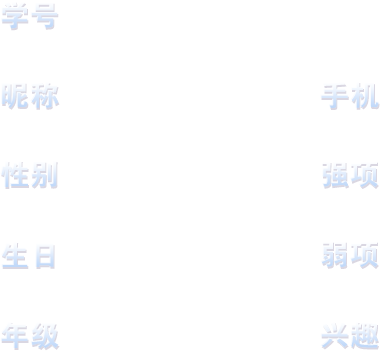
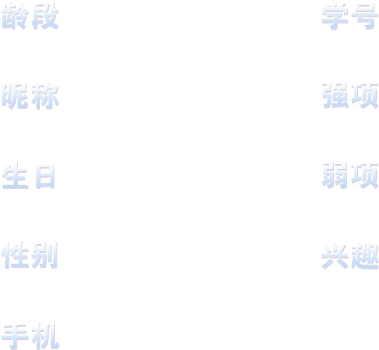
0129

diff --git a/Application/Hd/View/v1/Role/userInfo.html b/Application/Hd/View/v1/Role/userInfo.html
@@ -7,8 +7,8 @@
 #bottom{
 	position: absolute;
 	display: block;
-	width: 380px;
-	height: 351px;
+	width: 379px;
+	height: 350px;
 	top: 190px;
 	left: 400px;
 	background-image: url(__HD__/images/usercenter/baseInfo/bottom_baseInfo.png);
@@ -22,20 +22,20 @@
 	
 	var buttons = [
 	/* 栏目  */
-	{id:'ch_1',name:'',action:'',linkImage:'',focusImage:'',resize:'-1',selectBox:'',blurHandler:'blurHandler()',up:'changeNum',down:'ch_2',right:'nickname'}, 
-	{id:'ch_2',name:'',action:'',linkImage:'',focusImage:'',resize:'-1',selectBox:'',focusHandler:'focusHandler()',up:'ch_1',down:'ch_3',right:'nickname'}, 
-	{id:'ch_3',name:'',action:'',linkImage:'',focusImage:'',resize:'-1',selectBox:'',focusHandler:'focusHandler()',up:'ch_2',right:'nickname'},
+	{id:'ch_1',name:'',action:'',linkImage:'',focusImage:'',resize:'-1',selectBox:'',blurHandler:'blurHandler()',up:'changeNum',down:'ch_2',right:'stage'}, 
+	{id:'ch_2',name:'',action:'',linkImage:'',focusImage:'',resize:'-1',selectBox:'',focusHandler:'focusHandler()',up:'ch_1',down:'ch_3',right:'stage'}, 
+	{id:'ch_3',name:'',action:'',linkImage:'',focusImage:'',resize:'-1',selectBox:'',focusHandler:'focusHandler()',up:'ch_2',right:'stage'},
 
-	{id:'nickname',name:'',action:'',linkImage:'__HD__/images/usercenter/baseInfo/kuang_long.png',selectBox:'__HD__/images/usercenter/baseInfo/kuang_long_over.png',resize:'-1',left:'changeNum',right:'phone',down:'sex'},
-	{id:'sex',name:'',action:'',linkImage:'__HD__/images/usercenter/baseInfo/kuang_long.png',selectBox:'__HD__/images/usercenter/baseInfo/kuang_long_over.png',resize:'-1',left:'ch_1',right:'advantage',up:'nickname',down:'birthday'},
-	{id:'birthday',name:'',action:'',linkImage:'__HD__/images/usercenter/baseInfo/kuang_long.png',selectBox:'__HD__/images/usercenter/baseInfo/kuang_long_over.png',resize:'-1',left:'ch_2',right:'disadvantage',up:'sex',down:'stage'},
-	{id:'stage',name:'',action:'',linkImage:'__HD__/images/usercenter/baseInfo/kuang_long.png',selectBox:'__HD__/images/usercenter/baseInfo/kuang_long_over.png',resize:'-1',left:'ch_3',right:'interests',up:'birthday',down:''},
+	{id:'stage',name:'',action:'',linkImage:'__HD__/images/usercenter/baseInfo/kuang_long.png',selectBox:'__HD__/images/usercenter/baseInfo/kuang_long_over.png',resize:'-1',left:'selectFace',right:'',up:'',down:'nickname'},
+	{id:'nickname',name:'',action:'',linkImage:'__HD__/images/usercenter/baseInfo/kuang_long.png',selectBox:'__HD__/images/usercenter/baseInfo/kuang_long_over.png',resize:'-1',left:'changeNum',right:'advantage',up:'stage',down:'birthday'},
+	{id:'birthday',name:'',action:'',linkImage:'__HD__/images/usercenter/baseInfo/kuang_long.png',selectBox:'__HD__/images/usercenter/baseInfo/kuang_long_over.png',resize:'-1',left:'ch_1',right:'disadvantage',up:'nickname',down:'sex'},
+	{id:'sex',name:'',action:'',linkImage:'__HD__/images/usercenter/baseInfo/kuang_long.png',selectBox:'__HD__/images/usercenter/baseInfo/kuang_long_over.png',resize:'-1',left:'ch_2',right:'interests',up:'birthday',down:'phone'},
+	{id:'phone',name:'',action:'',linkImage:'__HD__/images/usercenter/baseInfo/kuang_long.png',selectBox:'__HD__/images/usercenter/baseInfo/kuang_long_over.png',resize:'-1',left:'ch_3',up:'sex',down:''},
 
-	{id:'phone',name:'',action:'',linkImage:'__HD__/images/usercenter/baseInfo/kuang_long.png',selectBox:'__HD__/images/usercenter/baseInfo/kuang_long_over.png',resize:'-1',left:'nickname',up:'ch_3',down:'advantage'},
 	{id:'version',name:'',action:'',linkImage:'__HD__/images/usercenter/baseInfo/kuang_long.png',selectBox:'__HD__/images/usercenter/baseInfo/kuang_long_over.png',resize:'-1',left:'nickname',up:'phone',down:'advantage'},
-	{id:'advantage',name:'',action:'',linkImage:'__HD__/images/usercenter/baseInfo/kuang_short.png',selectBox:'__HD__/images/usercenter/baseInfo/kuang_short_over.png',resize:'-1',left:'sex',up:'phone',down:'disadvantage'},
+	{id:'advantage',name:'',action:'',linkImage:'__HD__/images/usercenter/baseInfo/kuang_short.png',selectBox:'__HD__/images/usercenter/baseInfo/kuang_short_over.png',resize:'-1',left:'nickname',up:'',down:'disadvantage'},
 	{id:'disadvantage',name:'',action:'',linkImage:'__HD__/images/usercenter/baseInfo/kuang_short.png',selectBox:'__HD__/images/usercenter/baseInfo/kuang_short_over.png',resize:'-1',left:'birthday',right:'',up:'advantage',down:'interests'},
-	{id:'interests',name:'',action:'',linkImage:'__HD__/images/usercenter/baseInfo/kuang_short.png',selectBox:'__HD__/images/usercenter/baseInfo/kuang_short_over.png',resize:'-1',left:'stage',up:'disadvantage',down:''},
+	{id:'interests',name:'',action:'',linkImage:'__HD__/images/usercenter/baseInfo/kuang_short.png',selectBox:'__HD__/images/usercenter/baseInfo/kuang_short_over.png',resize:'-1',left:'sex',up:'disadvantage',down:''},
 
 	{id:'selectFace',name:'',action:'',linkImage:'__HD__/images/usercenter/baseInfo/face_'+faceNum+'.png',focusImage:'__HD__/images/usercenter/baseInfo/face_'+faceNum+'.png',selectBox:'__HD__/images/usercenter/leftNavigation/title_kuang.png',right:'nickname',up:'ch_3',down:'changeNum'},
 	{id:'changeNum',name:'',action:'',linkImage:'__HD__/images/usercenter/leftNavigation/change_account.png',focusImage:'__HD__/images/usercenter/leftNavigation/change_account_over.png',selectBox:'',right:'sex',up:'selectFace',down:'ch_1'},
@@ -99,16 +99,16 @@
 
 
 <!-- 学号  -->
-<div style="position:absolute;line-height:56px;width:196px;height:56px;left:460px;top:175px;text-align:center;border-style:none;color:black">
+<div style="position:absolute;line-height:56px;width:91px;height:56px;left:800px;top:175px;text-align:center;border-style:none;color:black">
 	<span style="color:white;text-align:center;">{$roleId}</span>
 </div>
 <!-- 用户信息 -->
 <volist name="userInfo" id="info" key="i">
 	<php>
-     	if($i > 4){
-          	$left = 800; $top = 255 + ($i-5)*80;
+     	if($i > 5){
+          	$left = 800; $top = 255 + ($i-6)*80;
        	}else{
-           	$left = 480; $top = 255 + ($i-1)*80;
+           	$left = 480; $top = 175 + ($i-1)*80;
         }
     </php>
 	

diff --git a/Application/Hd/View/v1/SectionList/detail_early.html b/Application/Hd/View/v1/SectionList/detail_early.html
@@ -76,6 +76,20 @@ var buttons=
 		{id:'section_4',name:'',action:'',linkImage:'',focusImage:'',selectBox:'__HD__/images/common/selectBox/select_box_220x220.png',left:['topic_5','topic_4'],right:'section_5',up:'section_1',down:''},
 		{id:'section_5',name:'',action:'',linkImage:'',focusImage:'',selectBox:'__HD__/images/common/selectBox/select_box_220x220.png',left:'section_4',right:'section_6',up:'section_2',down:''},
 		{id:'section_6',name:'',action:'',linkImage:'',focusImage:'',selectBox:'__HD__/images/common/selectBox/select_box_220x220.png',left:'section_5',right:'',up:'section_3',down:''},
+		
+		/* 月份按钮 */
+		{id:'month_1',name:'',action:'',linkImage:'',focusImage:'',left:'',right:'month_2',up:['topic_6','topic_5','topic_4','topic_3','topic_2','topic_1']},
+		{id:'month_2',name:'',action:'',linkImage:'',focusImage:'',left:'month_1',right:'month_3',up:['topic_6','topic_5','topic_4','topic_3','topic_2','topic_1']},
+		{id:'month_3',name:'',action:'',linkImage:'',focusImage:'',left:'month_2',right:'month_4',up:['topic_6','topic_5','topic_4','topic_3','topic_2','topic_1']},
+		{id:'month_4',name:'',action:'',linkImage:'',focusImage:'',left:'month_3',right:'month_5',up:['topic_6','topic_5','topic_4','topic_3','topic_2','topic_1']},
+		{id:'month_5',name:'',action:'',linkImage:'',focusImage:'',left:'month_4',right:'month_6',up:['topic_6','topic_5','topic_4','topic_3','topic_2','topic_1']},
+		{id:'month_6',name:'',action:'',linkImage:'',focusImage:'',left:'month_5',right:'month_7',up:['section_4','section_1']},
+		{id:'month_7',name:'',action:'',linkImage:'',focusImage:'',left:'month_6',right:'month_8',up:['section_4','section_1']},
+		{id:'month_8',name:'',action:'',linkImage:'',focusImage:'',left:'month_7',right:'month_9',up:['section_5','section_2']},
+		{id:'month_9',name:'',action:'',linkImage:'',focusImage:'',left:'month_8',right:'month_10',up:['section_5','section_2']},
+		{id:'month_10',name:'',action:'',linkImage:'',focusImage:'',left:'month_9',right:'month_11',up:['section_5','section_2']},
+		{id:'month_11',name:'',action:'',linkImage:'',focusImage:'',left:'month_10',right:'month_12',up:['section_6','section_3']},
+		{id:'month_12',name:'',action:'',linkImage:'',focusImage:'',left:'month_11',right:'',up:['section_6','section_3']},
 	];
 
 //知识点
@@ -194,7 +208,7 @@ function blurHandler(){
 //获取焦点时处理（目前主要用于栏目按钮）
 function focusHandler(){
 	if(Epg.btn.current.id != cur_topic){
-		setTimeout("Epg.btn.click()",50)
+		setTimeout("Epg.btn.click()",500)
 	}
 }
 

diff --git a/Application/Test/View/v1/Index/index.html b/Application/Test/View/v1/Index/index.html
@@ -18,6 +18,10 @@
 		<td height="40"><a href="http://{$HTTP_HOST}/?params=%7B%22username%22%3A%20%2200000000%22%2C%20%22epg_full_url%22%3A%20%22/epg_redirect/education/%3FINFO%3D%253CuserId%253E123456789036%253C/userId%253E%253CuserToken%253E03111508256980016640821125101009%253C/userToken%253E%253CTokenExpiretime%253E20140402023516%253C/TokenExpiretime%253E%253CGroupId%253E26%253C/GroupId%253E%253CuserIP%253E10.132.100.143%253C/userIP%253E%253CpetName%253E%253C/petName%253E%253CareaCode%253E00%253C/areaCode%253E%253CTradeId%253Enull%253C/TradeId%253E%253CstbId%253E411001990070119000014C09B4E84B2D%253C/stbId%253E%253Cback_hall_url%253Ehttp%3A//61.160.131.12%3A8296/SPToAms%253C/back_hall_url%253E%253Cfrom%253E000%253C/from%253E%22%2C%20%22c_zsj_userid%22%3A%20%22900176%22%2C%20%22areacode%22%3A%2090017%2C%20%22usertoken%22%3A%20%2203111508256980016640821125101009%22%2C%20%22stbtype%22%3A%20%22ztebw%22%2C%20%22userid%22%3A%20%22123456789036%22%2C%20%22return_url%22%3A%20%22http%3A//61.160.131.12%3A8296/SPToAms%3FINFO%3D%3CuserId%3E02586588234%3C/userId%3E%3CuserToken%3E03111508256980016640821125101009%3C/userToken%3E%3CTokenExpiretime%3E20140402023516%3C/TokenExpiretime%3E%3CGroupId%3E26%3C/GroupId%3E%3CuserIP%3E10.132.100.143%3C/userIP%3E%3CareaCode%3E00%3C/areaCode%3E%3CTradeId%3E%3C/TradeId%3E%3CstbId%3E411001990070119000014C09B4E84B2D%3C/stbId%3E%3CoptFlag%3EGAME%3C/optFlag%3E%3CSPID%3Espa00022%3C/SPID%3E%3Cback_epg_url%3Ehttp%3A//61.160.131.12%3A8296/SPToAms%3C/back_epg_url%3E%22%7D">嗨皮课堂</a></td>
 	</tr>
 	<tr align="center">
+		<td>天津广电后台(高清)</td>
+		<td height="40"><a href="http://localhost:8500">嗨皮课堂后台</a></td>
+	</tr>
+	<tr align="center">
 		<td colspan="2"></td>
 	</tr>
 </table>

diff --git a/Application/Hd/View/v1/SectionList/detail_preschool_workday.html b/Application/Hd/View/v1/SectionList/detail_preschool_workday.html
@@ -154,7 +154,7 @@ window.onload=function()
          $top = 500; $left = 85 + ($i-1)*375;
     </php>
     <div id="div_special_{$i}" style="position:absolute;width:370px;height:125px;left:{$left}px;top:{$top}px;text-align:center;">
-        <img id="special_{$i}" title="{:U('SectionList/index?courseId='.$special['id'])}" src="{:get_upfile_url($special['imgUrl'])}" width="360" height="115">
+        <img id="special_{$i}" title="{:U('SectionList/index?courseId='.$special['id'].'&preFocus='.$preFocus)}" src="{:get_upfile_url($special['imgUrl'])}" width="360" height="115">
     </div>
     <div id="div_special_{$i}_focus" style="position:absolute;visibility:hidden;width:380px;height:135px;left:{$left-5}px;top:{$top-5}px;text-align:center;">
         <img id="special_{$i}_focus" src="" width="370" height="125">

diff --git a/Application/Hd/View/v1/CourseList/index.html b/Application/Hd/View/v1/CourseList/index.html
@@ -201,7 +201,7 @@ function blurHandler(){
 //获取焦点时处理（目前主要用于栏目按钮）
 function focusHandler(){
 	if(Epg.btn.current.id != cur_stage){
-		setTimeout("Epg.btn.click()",50)
+		setTimeout("Epg.btn.click()",500)
 	}
 }
 

diff --git a/Application/Hd/View/v1/Index/recommend.html b/Application/Hd/View/v1/Index/recommend.html
@@ -174,7 +174,7 @@ function blurHandler(){
 //获取焦点时处理（目前主要用于栏目按钮）
 function focusHandler(){
 	if(Epg.btn.current.id != "ch_1"){
-		setTimeout("Epg.btn.click()",50);
+		setTimeout("Epg.btn.click()",500);
 	}
 }
 

diff --git a/Application/Hd/View/v1/Index/allCourse.html b/Application/Hd/View/v1/Index/allCourse.html
@@ -130,7 +130,7 @@ function blurHandler(){
 //获取焦点时处理（目前主要用于栏目按钮）
 function focusHandler(){
 	if(Epg.btn.current.id != "ch_3"){
-		setTimeout("Epg.btn.click()",50)
+		setTimeout("Epg.btn.click()",500)
 	}
 }
 

diff --git a/Application/Hd/View/v1/Index/myCourse.html b/Application/Hd/View/v1/Index/myCourse.html
@@ -179,7 +179,7 @@ function blurHandler(){
 //获取焦点时处理（目前主要用于栏目按钮）
 function focusHandler(){
 	if(Epg.btn.current.id != "ch_2"){
-		setTimeout("Epg.btn.click()",50)
+		setTimeout("Epg.btn.click()",500)
 	}
 }
 

diff --git a/Application/Hd/Controller/LearningController.class.php b/Application/Hd/Controller/LearningController.class.php
@@ -78,46 +78,49 @@ class LearningController extends CommonController {
 		$pageCount = get_page_count($course['total'], $pageSize);
 		$pageHtml = get_page_html($page, $pageCount);
 		
-		foreach($course['rows'] as $key => $value)
+		if(!empty($course[rows]))
 		{
-			$courseIds[] = $value['id'];
-		}
-		
-		//统计进度
-		$progressPreschool = D('Learning', 'Logic')->statisticsDataPreschool($courseIds,$this->role['id'],230);
-		$progressPreschool = $progressPreschool['data'];
-		Session('progressPreschool',$progressPreschool);
-		
-		$score = D('Learning', 'Logic')->statisticsScore($role['stageId'],$this->role['id'],1);
-//		p($score);exit;
-		$score = $score['data'];
-		Session('score',$score);
-		
-		$focus = $this->getFocus();
-		foreach($course['rows'] as $key => $value)
-		{
-			$temp = 0;
-			foreach($progressPreschool[$value['id']] as $k => $v)
+			foreach($course['rows'] as $key => $value)
 			{
-				$temp += $v; 
+				$courseIds[] = $value['id'];
 			}
-			$data[$key]['name'] = $value['name'];
-			$data[$key]['id'] = $value['id'];
-			$data[$key]['length'] = $temp/count($progressPreschool[$value['id']])*230;
-			$data[$key]['sumScore'] = $score['courseScore'][$value['id']]['sum'];
-		}
-//		p($data);exit;
-/* 		foreach($course['rows'] as $key => $value)
-		{
+			
+			//统计进度
+			$progressPreschool = D('Learning', 'Logic')->statisticsDataPreschool($courseIds,$this->role['id'],230);
+			$progressPreschool = $progressPreschool['data'];
+			Session('progressPreschool',$progressPreschool);
+			
+			$score = D('Learning', 'Logic')->statisticsScore($role['stageId'],$this->role['id'],1);
+			//p($score);exit;
+			$score = $score['data'];
+			Session('score',$score);
+			
+			$focus = $this->getFocus();
+			foreach($course['rows'] as $key => $value)
+			{
+				$temp = 0;
+				foreach($progressPreschool[$value['id']] as $k => $v)
+				{
+					$temp += $v;
+				}
+				$data[$key]['name'] = $value['name'];
+				$data[$key]['id'] = $value['id'];
+				$data[$key]['length'] = round($temp*230/count($progressPreschool[$value['id']]),0);//得到进度长度，四舍五入取整数
+				$data[$key]['sumScore'] = empty($score['courseScore'][$value['id']]) ? 0 : $score['courseScore'][$value['id']]['sum'];
+			}
+			//p($data);exit;
+			/* 		foreach($course['rows'] as $key => $value)
+			 {
 			$data[$key]['name'] = $value['name'];
 			$data[$key]['id'] = $value['id'];
 			$d = $this -> getData($value['id']);
 			$data[$key]['length'] = $this -> getProgressCounrse($d,230);
-		} */
+			} */
+		}
 		
 		$focus = $this->getFocus();//获得上个页面焦点
 		$this->assign(array(
-				'pageHtml' => $pageHtml,//$page['html'],
+				'pageHtml' => ($role['stageId']==99) ? null : $pageHtml,//$page['html'],
 				'datas' => $data,
 				'channels' => $channel,
 				'json_channel' => $json_encode,
@@ -125,8 +128,8 @@ class LearningController extends CommonController {
 				'page' => $page,
 				'pageCount' => $pageCount,
 				'focus' => $focus,
-				'roleScore' => $score['roleScore'],
-				'rank' => $score['rank'],
+				'roleScore' => isset($score['roleScore']) ? $score['roleScore'] : 0,
+				'rank' => isset($score['rank']) ? $score['rank'] : 0,
 		));
 		$this->display();
 	}

diff --git a/Application/Hd/Controller/RoleController.class.php b/Application/Hd/Controller/RoleController.class.php
@@ -115,6 +115,7 @@ class RoleController extends CommonController {
 		$sex=( (empty($role['sex'])) ? ('去设置') :( ($role['sex']=='1') ? '男' : '女') );
 		$nickName = empty($role['nickName']) ? '去设置' : $role['nickName'];	
 		$birthday = empty($role['birthday']) ? '去设置' : $role['birthday'];	
+		$stageAge = $role['stageId']==99 ? '去设置' : $stage[$role['stageId']]['name'];	
 		
 		$userInfo = array(
 				/*学号*/
@@ -122,17 +123,17 @@ class RoleController extends CommonController {
 						'name' => 'num',
 						'content' => array($role['id']),
 				), */
+				/*年级*/
+				array(
+						'name' => 'stage',
+						'content' => array($stageAge),
+						'linkUrl' => '/Hd/Role/changeStage?focus=stage',
+				),
 				/*昵称*/
 				array(
 						'name' => 'nickname',
 						'content' => array($nickName),
 						'linkUrl' => '/Hd/Role/setNickname?focus=nickname',
-				),
-				/*性别*/
-				array(
-						'name' => 'sex',
-						'content' => array($sex),
-						'linkUrl' => '/Hd/Role/setSex?focus=sex',
 				),
 				/*生日*/
 				array(
@@ -140,12 +141,13 @@ class RoleController extends CommonController {
 						'content' => array($birthday),
 						'linkUrl' => '/Hd/Role/setBirthday?focus=birthday',
 				),
-				/*年级*/
+				/*性别*/
 				array(
-						'name' => 'stage',
-						'content' => array($stage[$role['stageId']]['name']),
-						'linkUrl' => '/Hd/Role/changeStage?focus=stage',
+						'name' => 'sex',
+						'content' => array($sex),
+						'linkUrl' => '/Hd/Role/setSex?focus=sex',
 				),
+
 				/*手机*/
 				array(
 						'name' => 'phone',

diff --git a/Application/Hd/Controller/ResourceController.class.php b/Application/Hd/Controller/ResourceController.class.php
@@ -33,6 +33,10 @@ class ResourceController extends CommonController {
         $lessonList = explode(',', $section['lessonList']);
         $playList = array_merge($playList, $lessonList); //将预习与课堂进行组合
         $playList = array_filter($playList); //去除数组中空值
+        if(empty($playList)){
+        	$jumpUrl = 'Library/detail?courseId='.$courseId.'&sectionId='.$sectionId;
+        	header('location:'.U($jumpUrl));
+        }
         //print_r($playList);
         $playResourceData = D('Resource', 'Logic')->queryResourceList($playList, 'id,content,keyList');
         // print_r($playResourceData);
